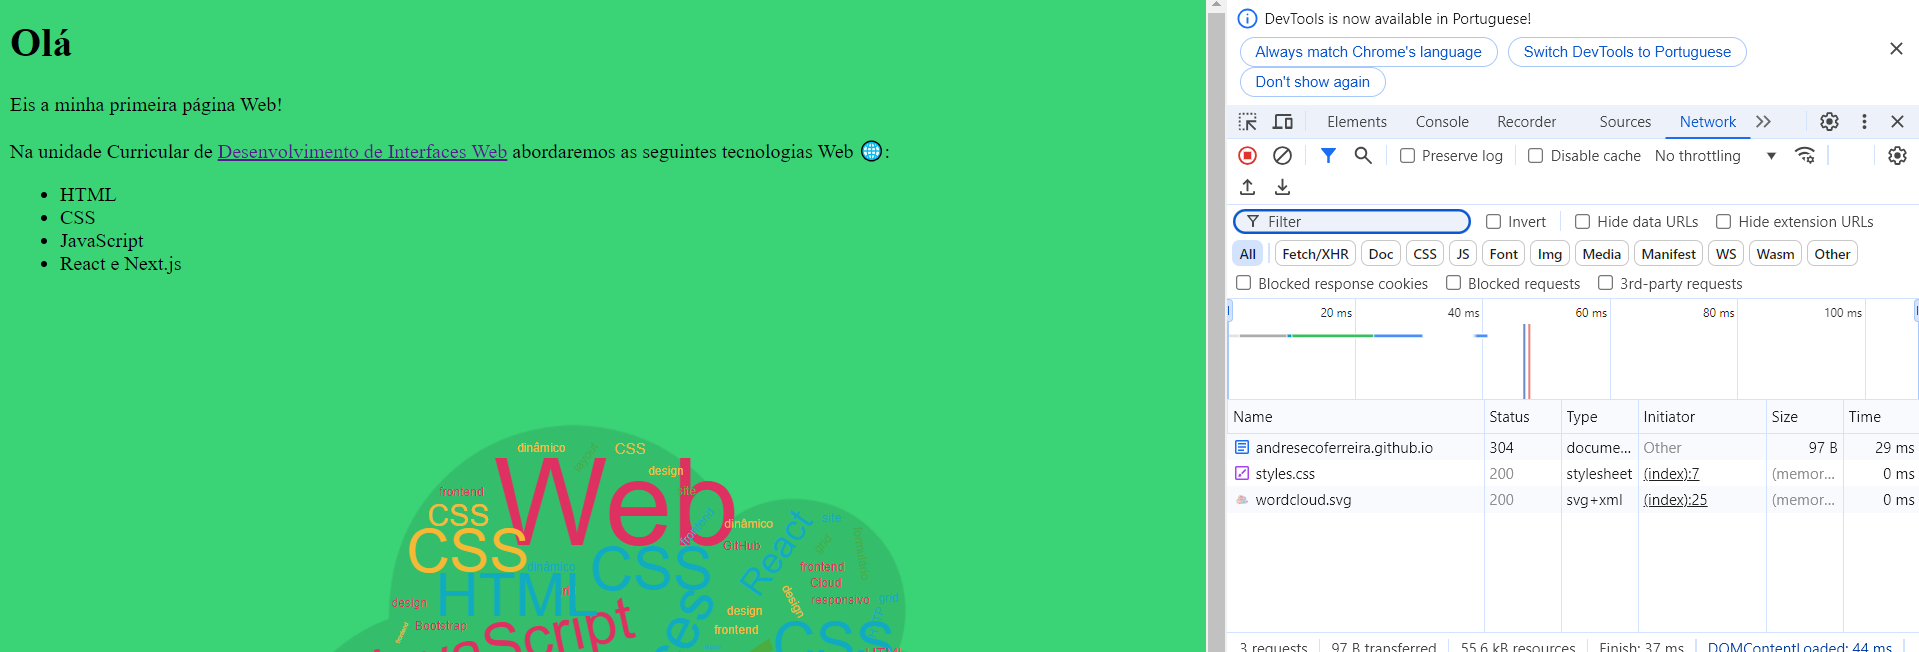
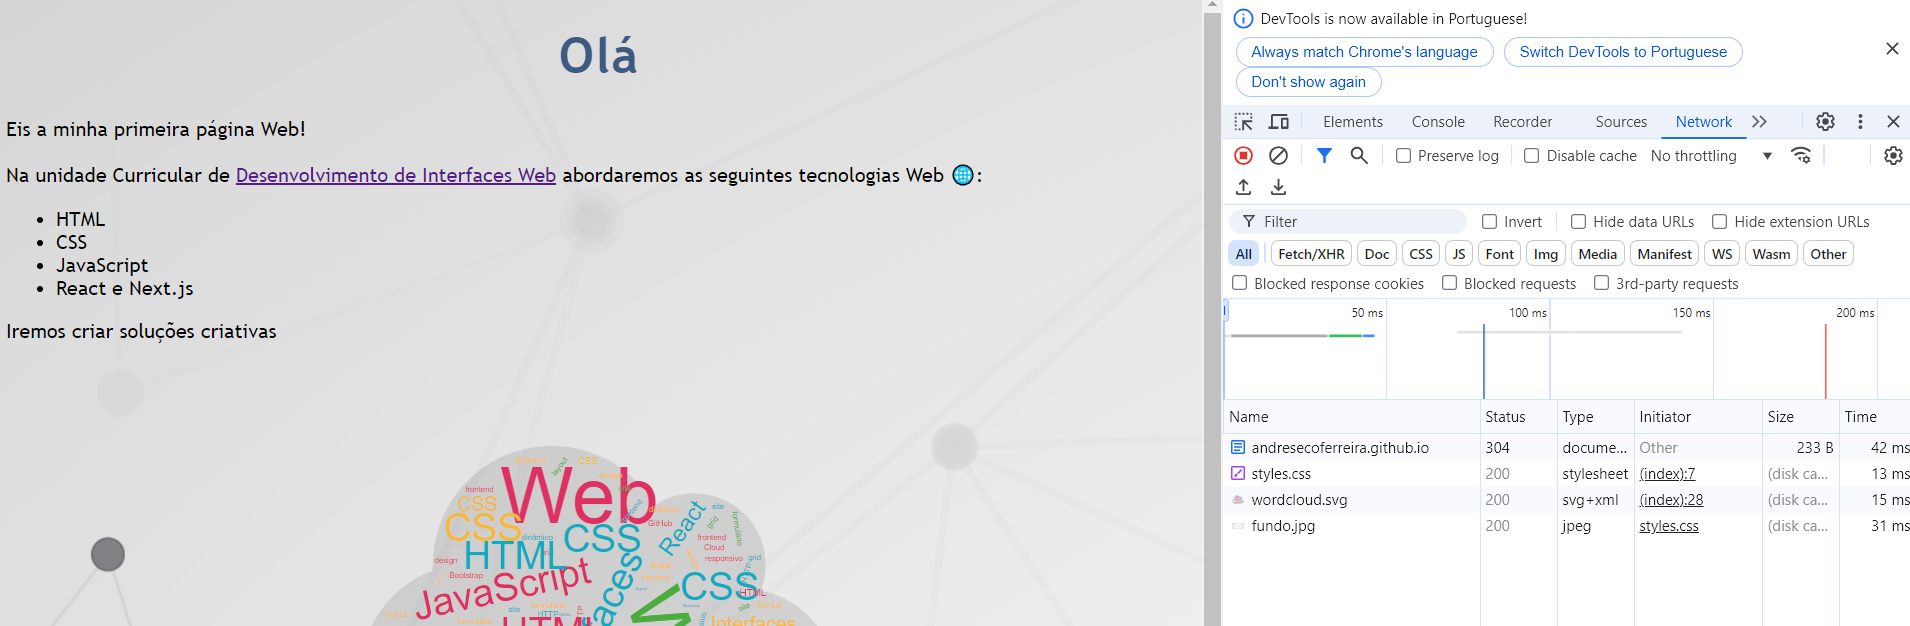
Update Styles

diff --git a/Lab1/styles2.css b/Lab1/styles2.css
@@ -13,7 +13,7 @@ h1{
 }
 
 h2{
-    color: #3d5a80;
+    color: #3d5a7f;
     font-family: "Trebuchet MS", sans-serif;
     text-align: center; 
 
@@ -25,3 +25,15 @@ p{
     font-family: "Trebuchet MS", sans-serif;
     text-align: justify;
 }
+
+img {
+    border: 5px solid #3d5a7f;
+  }
+
+  a {
+    text-align: center; 
+    font-family: "Trebuchet MS", sans-serif;
+    color: #3d5a7f;
+  }
+  
+ 

diff --git a/Lab1/report.html b/Lab1/report.html
@@ -59,6 +59,8 @@
     height="241">
     </div>
 
+    <a href="#" class="previous">&laquo; Home</a>
+
     
 
 </body>
